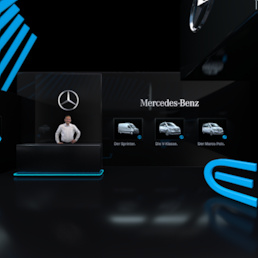
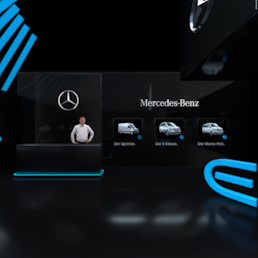
eee

Changed region(s): [[0.2171, 0.4341, 0.3721, 0.5581]]

diff --git a/skin.js b/skin.js
@@ -1,7 +1,7 @@
 // Garden Gnome Software - Skin
 // Pano2VR 6.1.10/18007
 // Filename: simplex_Merc2.ggsk
-// Generated 2020-11-13T12:48:38
+// Generated 2020-11-13T12:51:03
 
 function pano2vrSkin(player,base) {
 	player.addVariable('opt_hotspot_preview', 2, true);
